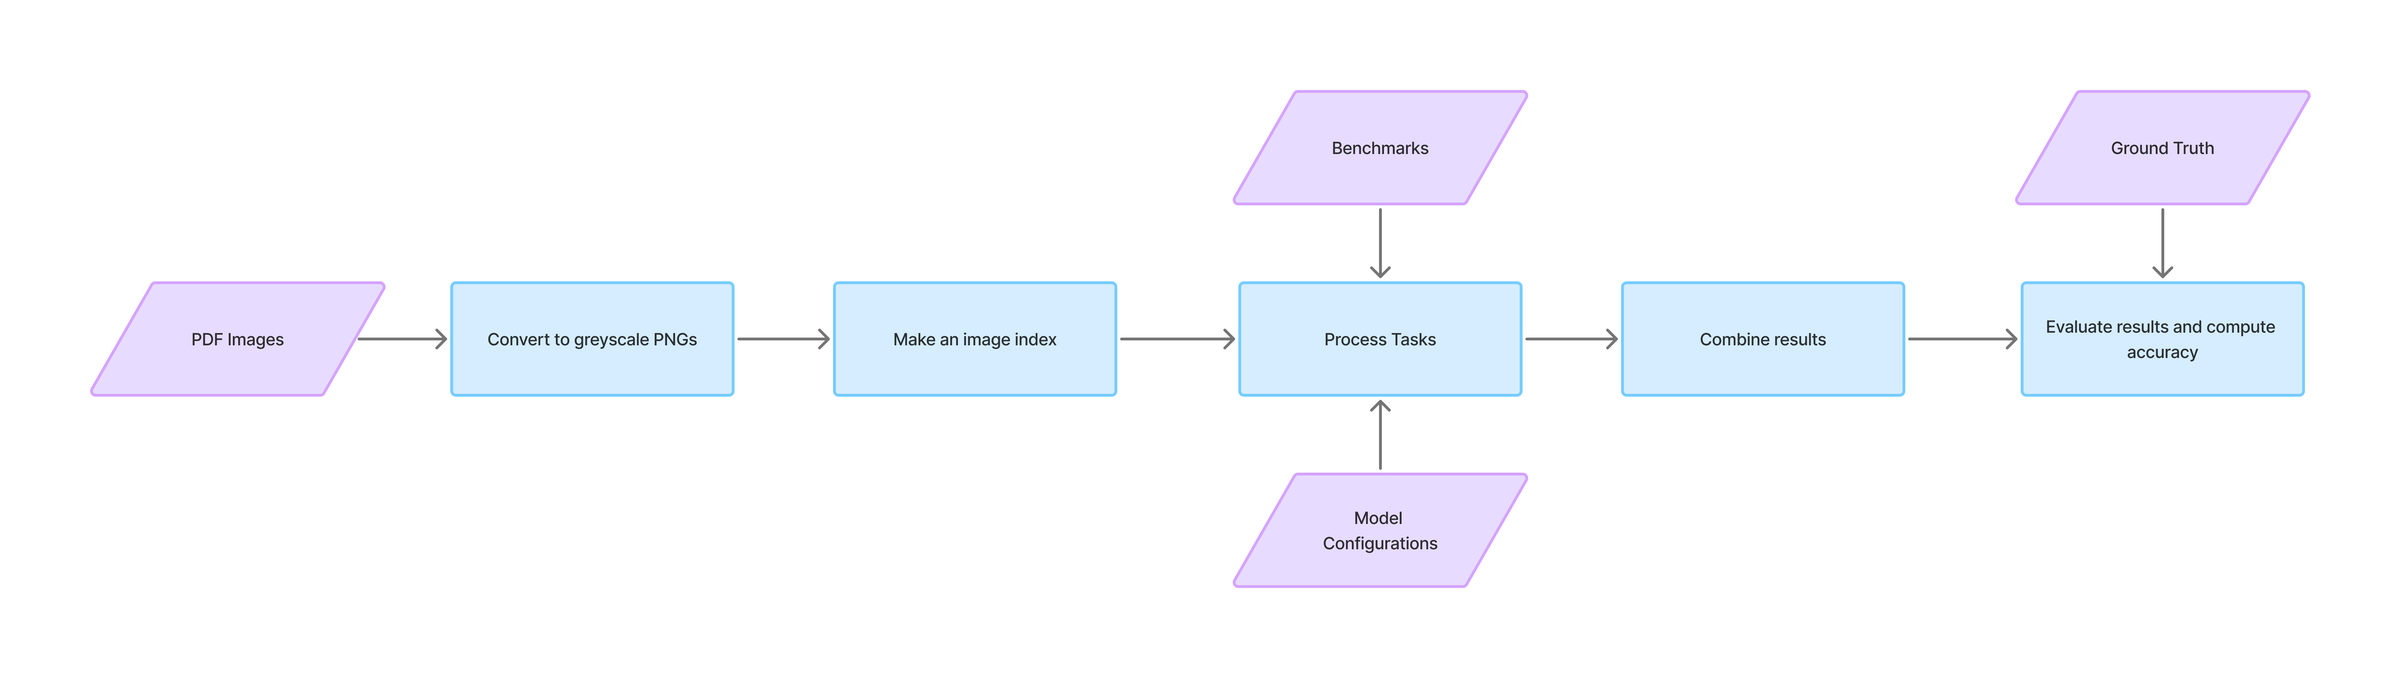
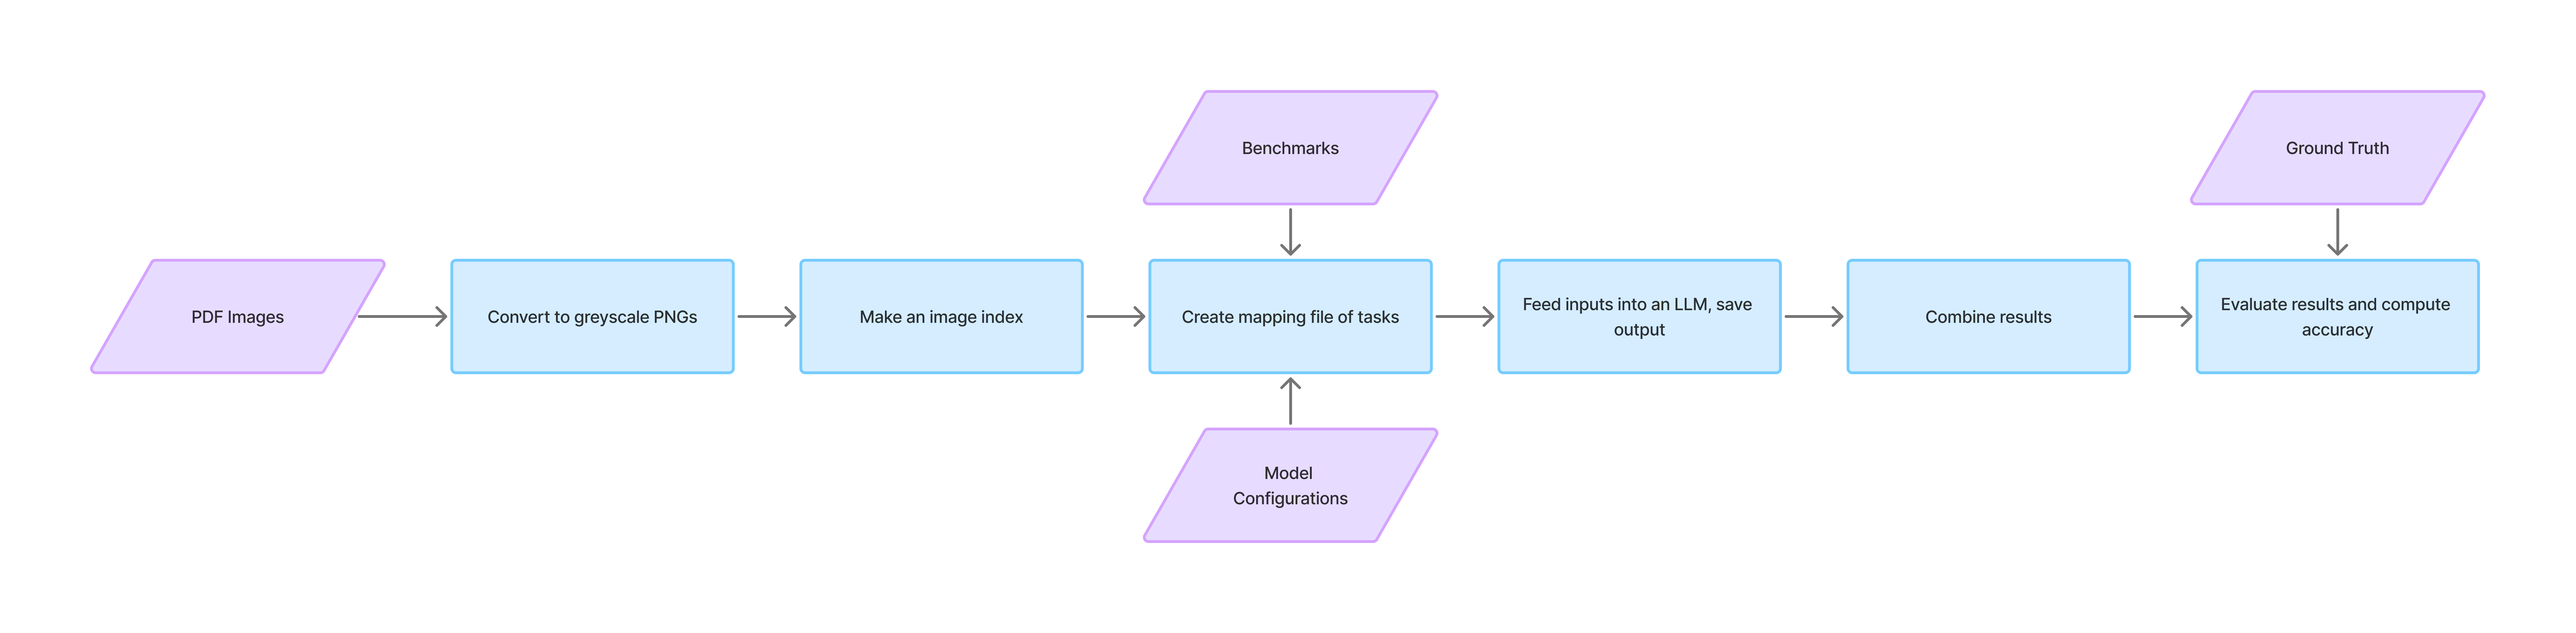
Updated README, renamed files, added cost information

diff --git a/scripts/5_main.py b/scripts/5_main.py
@@ -24,14 +24,13 @@ import sys
 task_selection = sys.argv[1]
 # cast to int so we can use this to index mapping.csv
 task_selection = int(task_selection)
-# task_selection = 2087
+#task_selection = 14
 
 # Load environment variables from .env file
-project_root = Path(__file__).resolve().parents[1]
-load_dotenv(project_root/".env")
+BASE_DIR = Path(__file__).resolve().parents[1]
+load_dotenv(BASE_DIR/".env")
 
 STANFORD_API_KEY = os.getenv("STANFORD_API_KEY")
-BASE_DIR = os.getenv("BASE_DIR")
 
 ENDPOINT = "https://aiapi-prod.stanford.edu/v1/chat/completions"
 
@@ -113,7 +112,7 @@ def encode_image(image_path: str) -> str:
 def run_model(model_name: str, b64: str, SYSTEM_PROMPT: str,
               USER_PROMPT: str, properties: dict, required: list,
               benchmark_name: str, benchmark_id: str, model_id: str,
-              image_id: str) -> dict:
+              image_id: str, run_number: int) -> dict:
     """
     Builds payload and sends request to Stanford AI API.
     Parses output and returns a dictionary.
@@ -215,6 +214,7 @@ def run_model(model_name: str, b64: str, SYSTEM_PROMPT: str,
                 output_dict["image_id"] = image_id
                 output_dict["benchmark_name"] = benchmark_name
                 output_dict["benchmark_id"] = benchmark_id
+                output_dict["run_id"] = run_number
 
                 if usage:
                     output_dict["completion_tokens"] = usage["completion_tokens"]
@@ -250,12 +250,15 @@ def run_model(model_name: str, b64: str, SYSTEM_PROMPT: str,
 def main():
     """Load a task from the mapping, process it through the LLM pipeline, and save results."""
 
+    run_number = 2
+
     mapping_path = os.path.join(BASE_DIR, "inputs", "mapping.csv")
 
     with open(mapping_path, "r") as file:
         reader = csv.reader(file)
         header = next(reader)
         mapping = list(reader)
+        mapping = [row for row in mapping if row[4] not in ['claude-3-5-sonnet', 'claude-3-7-sonnet']] # filter out retired models
 
     try:
         selected_task = mapping[task_selection]
@@ -269,7 +272,7 @@ def main():
         BASE_DIR,
         "outputs",
         "results",
-        f"results_{task_id}.json")
+        f"results_{task_id}_{run_number}.json")
 
     # check if we need to process this task
 
@@ -299,7 +302,7 @@ def main():
     model_output = run_model(model_name, b64, system_prompt,
                              user_prompt, properties, required,
                              benchmark_name, benchmark_id, model_id,
-                             image_id)
+                             image_id, run_number)
 
     # assign LLM results to a dictionary
 

diff --git a/scripts/7_compute_metrics.py b/scripts/7_compute_metrics.py
@@ -1,6 +1,7 @@
 """
 - Load combined_results.json file from outputs/metric folder
 - Load ground_truth.csv and join based on image_id and benchmark_name
+- Calculate dollar costs for input tokens, output tokens, and total tokens used
 - Designate if output was correct or not
 """
 
@@ -13,10 +14,8 @@ import os
 from dotenv import load_dotenv
 from pathlib import Path
 
-# Load environment variables from .env file
+# Get project_root
 project_root = Path(__file__).resolve().parents[1]
-load_dotenv(project_root/".env")
-BASE_DIR = os.getenv("BASE_DIR")
 
 # Helper Functions
 
@@ -31,6 +30,34 @@ def load_and_filter(combined_results: str) -> pd.DataFrame:
     results_df = pd.DataFrame(llm_outputs)
     filtered_df = results_df[results_df["status"] == "processed"]
     return filtered_df
+
+
+def calculate_dollar_costs(
+        filtered_df: pd.DataFrame,
+        benchmarks: str) -> pd.DataFrame:
+    """
+    Converts token usage into input, output, and total dollar costs.
+    """
+    with open(benchmarks, "r") as f:
+        model_config = json.load(f)
+
+    model_config_df = pd.DataFrame(model_config)
+    config = model_config_df.T
+
+    df = filtered_df.merge(config[['model', 'input_cost', 'output_cost']].rename(
+        columns={'model': 'model_name'}), on='model_name', how='left')
+
+    df['input_tokens'] = df['total_tokens'] - df['completion_tokens']
+    df['input_dollar_cost'] = (df['input_tokens'] * df['input_cost'] / 1000000)
+    df['output_dollar_cost'] = (
+        df['completion_tokens'] *
+        df['output_cost'] /
+        1000000)
+    df['total_dollar_cost'] = (
+        (df['input_tokens'] * df['input_cost'] / 1000000)
+        + (df['completion_tokens'] * df['output_cost'] / 1000000))
+
+    return df
 
 
 def load_ground_truth(image_path: str) -> pd.DataFrame:
@@ -119,16 +146,25 @@ def main():
     # set variables
 
     combined_results = os.path.join(
-        BASE_DIR,
+        project_root,
         "outputs",
         "metrics",
         "combined_results.json")
-    ground_truth = os.path.join(BASE_DIR, "inputs", "ground_truth.json")
-    save_path = os.path.join(BASE_DIR, "outputs", "metrics", "metrics.json")
+    ground_truth = os.path.join(project_root, "inputs", "ground_truth.json")
+    save_path = os.path.join(
+        project_root,
+        "outputs",
+        "metrics",
+        "metrics.json")
+    model_config = os.path.join(project_root, "inputs", "models.json")
 
     # load llm_results
 
     filtered_df = load_and_filter(combined_results)
+
+    # calculated costs
+
+    filtered_df = calculate_dollar_costs(filtered_df, model_config)
 
     # load ground truth
 

diff --git a/scripts/6_combine_check_results.py b/scripts/6_combine_check_results.py
@@ -7,13 +7,11 @@ import pandas as pd
 import glob
 import json
 import os
-from dotenv import load_dotenv
 from pathlib import Path
 
 # Load environment variables from .env file
-project_root = Path(__file__).resolve().parents[1]
-load_dotenv(project_root/".env")
-BASE_DIR = os.getenv("BASE_DIR")
+BASE_DIR = Path(__file__).resolve().parents[1]
+
 
 # Helper Functions
 

diff --git a/README.md b/README.md
@@ -1,6 +1,6 @@
 # [DARC Intern Project] Building Customizable LLM Evaluation Pipelines for Research
 
-> Stanford's AI Playground allows researchers and staff to have access to almost 20 LLMs via their API. How do users determine which model is best suited for their needs? We built a pipeline that delivers a clear ranking of how different models perform on a set of benchmarks related to processing table based images.
+> Stanford's AI Playground allows researchers and staff access to almost 20 LLMs via their API. How do users determine which model is best suited for their needs? We built a pipeline that delivers a clear ranking of how different models perform on a set of benchmarks related to processing table based images.
 
 ---
 
@@ -20,7 +20,7 @@ Business and Social Science research, like the kind done at Stanford GSB, often 
 
 ### LLM Decision Fatigue
 
-Choosing the right LLM is a deceptively tough task. The best choice LLM often depends on what images are being processed, what information needs to be extracted, and how much of a priority efficient token usage takes. Researchers often don't have the time to test models individually. New versions of models come out rapidly and their predecessors get retired just as frequently, when is it worthwhile for user to modify their existing workflows with more recent LLMs?
+Choosing the right LLM is a deceptively tough task. The best choice LLM often depends on the images being processed, the information that needs to be extracted, and the budget for a project. Researchers often don't have the time to test models individually. New versions of models come out rapidly and their predecessors get retired just as frequently, when is it worthwhile for a user to modify their existing workflows with more recent LLMs?
 
 ### Our Approach
 
@@ -71,12 +71,6 @@ pip install -r requirements.txt
 
 ### Create and Activate a Virtual Environment (Sherlock)
 
-Recommended: create new git branch for Sherlock
-
-```
-git checkout -b sherlock
-```
-
 Request compute resources (normal, dev, or gsb) to create a venv.
 
 ```
@@ -93,9 +87,7 @@ pip install -r requirements.txt
 Create a `.env` file in the project root with:
 
 ```text
-OPENAI_API_KEY=your_key_here
 STANFORD_API_KEY=your_key_here
-BASE_DIR = "your/base/directory/LLM_Benchmarks"
 ```
 
 > ⚠ Note: as models get added & removed from the Stanford AI API you will need to submit a ticket to update your API key.
@@ -148,39 +140,46 @@ Example:
 ```
 ### Run scripts (`LLM_benchmarks/scripts/`)
 
-#### `1.pdf_to_png.py`
+Scripts should be run in the order that they are numbered.
 
-Upload PDFs to `LLM_Benchmarks/inputs/data/pdfs/`
-Converts PDFS into grayscale PNGs, saves files to `LLM_Benchmarks/iputs/data/pngs/`.
-Prints PNG paths and file sizes in MBs.
+#### `1_pdf_to_png.py`
 
-#### `2.make_index.py`
+- Before running: upload PDFs to `LLM_Benchmarks/inputs/data/pdfs/`
+- Converts PDFS into grayscale PNGs, saves files to `LLM_Benchmarks/iputs/data/pngs/`.
+- Prints PNG paths and file sizes in MBs.
 
-Upload CSVs to `LLM_Benchmarks/inputs/data/csvs/`.
-There should be a source of truth CSV for each PDF, naming should be the same excluding .png/.csv.
-Creates a JSON snapshot of paths for PNGs and their source of truth CSVs.
+#### `2_make_index.py`
 
-#### `3.create_mapping.py`
+- Before running: upload CSVs to `LLM_Benchmarks/inputs/data/csvs/`.
+- There should be a source of truth CSV for each PDF, naming should be the same excluding .png/.csv.
+- Creates a JSON snapshot of paths for PNGs and their source of truth CSVs.
+
+#### `3_create_mapping.py`
 
 Creates a mapping file that: 
 (1) finds all unique combinations of selected benchmarks, models, and images
 (2) assigns a unique task id to each one
 (3) saves these results into a csv file to be used in main.py
 
-#### `4.extract_ground_truth.py`
+#### `4_extract_ground_truth.py`
 
-Iterates through all of the CSVs in the image_index.
-Creates/updates ground truth JSON with the correct benchmark values.
+- Context: ground truth csv files were created via human extraction. 
+- Iterates through all of the CSVs in the image_index.
+- Creates/updates ground truth JSON with the correct benchmark values.
 
-> ⚠ Note: this script needs to be customized based on what the benchmarks are.
+> ⚠ Note: this script needs to be customized based on what the benchmarks are. An example of how to extract the 'Day' field of the first row is below.
 
-#### `5.main.py`
+```python
+day_of_week = csv_df['Day'][0]
+```
 
-Orchestrates processing of a single task.
-Tasks are loaded via the mapping.csv file
-If the task has not already been processed then the corresponding benchmark, model, and image are loaded from their respective JSONs.
-A pydantic model is dynamically generated and inputs are passed into an LLM via Stanford API.
-The following outputs are saved as an individual JSON file to `LLM_Benchmarks/outputs/results/results_{task_id}.json`
+#### `5_main.py`
+
+- Orchestrates processing of a single task.
+- Tasks are loaded via the mapping.csv file.
+- If the task has not already been processed then the corresponding benchmark, model, and image are loaded from their respective JSONs.
+- A pydantic model is dynamically generated and inputs are passed into an LLM via the Stanford AI API.
+- The following outputs are saved as an individual JSON file to `LLM_Benchmarks/outputs/results/results_{task_id}.json`
 
 ```json
 {
@@ -193,7 +192,8 @@ The following outputs are saved as an individual JSON file to `LLM_Benchmarks/ou
     "benchmark_id": "0",
     "completion_tokens": 9,
     "total_tokens": 1196,
-    "status": "processed"
+    "status": "processed",
+    "run_number": 1
   }
 }
 ```
@@ -205,22 +205,22 @@ Example:
 sbatch sherlock.slurm
 ```
 
-#### `6.combine_check_results.py`
-Loads all results within the `LLM_Benchmarks/outputs/results/` directory.
-Combines results into a single DataFrame.
-Saves the results to `LLM_Benchmarks/outputs/results/metrics/combined_results.json`
-Prints the total number of successful and unsuccessful tasks, returns dictionary of error messages with counts.
+#### `6_combine_check_results.py`
+- Loads all results within the `LLM_Benchmarks/outputs/results/` directory.
+- Combines results into a single DataFrame.
+- Saves the results to `LLM_Benchmarks/outputs/results/metrics/combined_results.json`
+- Prints the total number of successful and unsuccessful tasks, returns dictionary of error messages with counts.
 
-#### `7.compute.py`
-Loads combined_results.json and filters for tasks that have been processed.
-Evaluates model outputs compared to ground truth, assigns a accuracy score.
-Saves results as a `LLM_Benchmarks/outputs/results/metrics/metrics.json`
+#### `7_compute.py`
+- Loads combined_results.json and filters for tasks that have been processed.
+- Evaluates model outputs compared to ground truth, assigns a accuracy score based on exact matching.
+- Saves results as a `LLM_Benchmarks/outputs/results/metrics/metrics.json`
 
 ---
 
 ## Findings
 
-After reviewings the results we found that gemini-2.5-pro was the most accurate multimodal model in the Stanford AI Playground API at the time of testing (February 25th 2026). 
+After reviewings the results we found that gemini-2.5-pro was the most accurate multimodal model in the Stanford AI Playground API at the time of testing (February 25th, 2026). 
 
 ### Accuracy by Model
 
@@ -259,8 +259,6 @@ Double clicking into metadata extraction benchmarks Newspaper Name and Newspaper
 While building and testing this pipeline we identified a couple of opportunties of improvement related to the Stanford AI Playground API. 
 
 Changes to avaiable models are not always consistently announced and often require manual combing through the ai-playground slack channel. Once these changes go into effect API keys need to be rerequested, otherwise they continue to reflect access to models that are no longer available. It would be helpful if API keys would automatically remove retired models and request forms would allow users to signal that they want access to all future models as well.
-
-Another method to increase transparency could be publishing the estimated cost of a token. Right now API cost reports are available on a monthly basis so it's difficult to get a real time sense of what a project may cost. Often times these are small amounts but for larger sets of task this could allow pipelines to run more efficiently.
 
 ---
 
